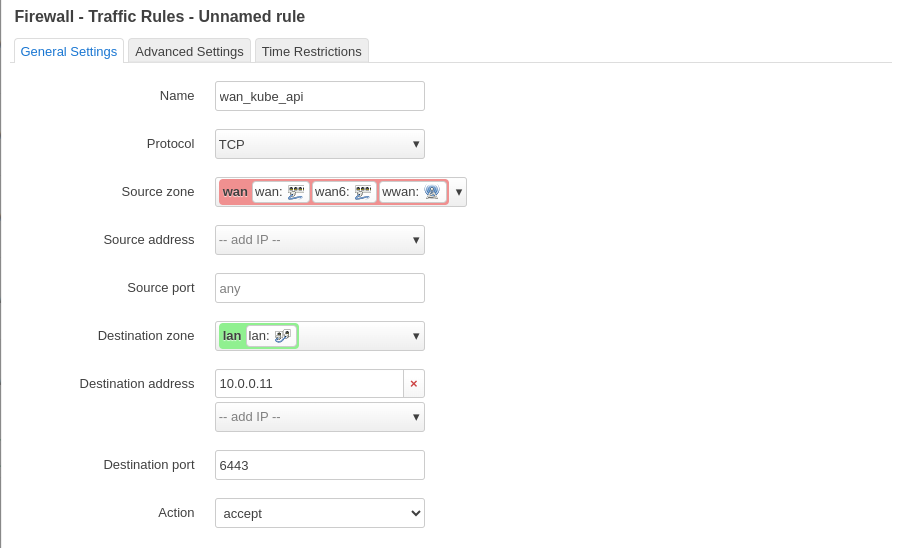
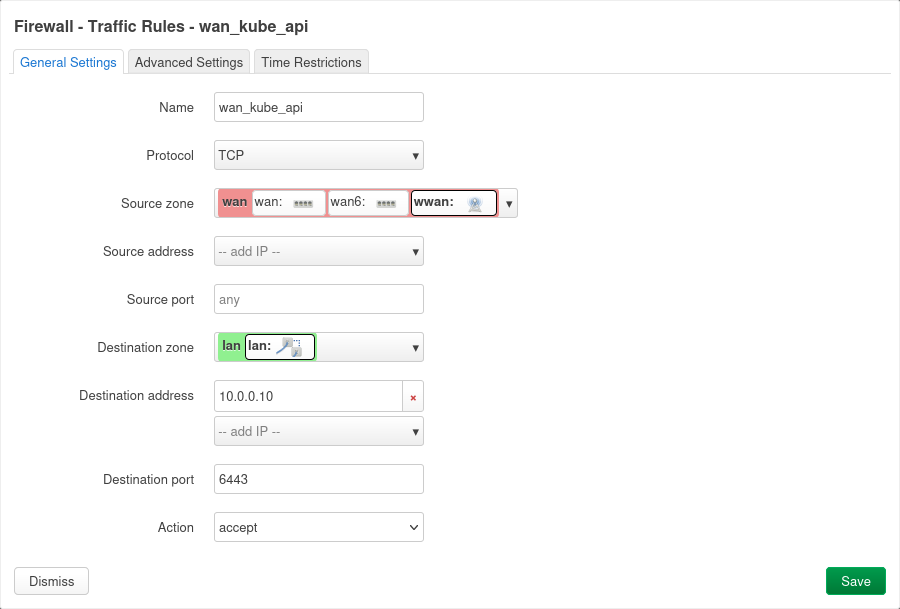
Updating openwrt doc. Adding firewall rules for Minio/Vault/Kafka. Updating rule for Kube-VIP

diff --git a/docs/_docs/openwrt.md b/docs/_docs/openwrt.md
@@ -2,7 +2,7 @@
 title: Cluster Gateway (OpenWrt)
 permalink: /docs/openwrt/
 description: How to configure a router/firewall for our homelab Cluster, running OpenWRT OS and providing connectivity and basic networking services (DNS, DHCP, NTP). 
-last_modified_at: "16-08-2025"
+last_modified_at: "03-04-2026"
 ---
 
 To isolate my kubernetes cluster from my home network, a Router/Firewall running OpenWRT will be used, **gateway** node.
@@ -320,7 +320,7 @@ Enabling SSH traffic (tcp port:22) to cluster nodes from WAN interface
 
 ##### Enabling HTTPs traffic to Kube API
 
-Enabling HTTPS traffic to Kube API (TCP 6443) running in 10.0.0.11 (HA Proxy load balancer)
+Enabling HTTPS traffic to Kube API (TCP 6443) running in 10.0.0.10 (Kube API VIP exposed by Kube-VIP load balancer)
 
 ![openwrt-firewall-kube-api-from-wan](/assets/img/openwrt-firewall-kube-api-from-wan.png)
 
@@ -342,6 +342,27 @@ Enable DNS traffic to OpenWRT router from WAN interface. Use Homelab DNS from my
 
 ![openwrt-allow-dns-traffic-to-device](/assets/img/openwrt-allow-dns-traffic-to-device.png)
 
+##### Enabling HTTPS Traffic to Vault Server
+Enable HTTPS traffic to Vault server (TCP 8200) running in node1 (10.0.0.11)
+
+![openwrt-firewall-vault-from-wan](/assets/img/openwrt-firewall-vault-from-wan.png)
+
+##### Enabling HTTPS Traffic to Minio Server
+
+Enable HTTPS traffic to Minio API (TCP 9091) and console (TCP 9092)running in node1 (10.0.0.11)
+
+![openwrt-firewall-minio-api-from-wan](/assets/img/openwrt-firewall-minio-api-from-wan.png)
+
+![openwrt-firewall-minio-console-from-wan](/assets/img/openwrt-firewall-minio-console-from-wan.png)
+
+
+##### Enabling Kafka traffic to Kafka cluster
+
+Enable Kafka traffic (TCP 9093) to Kafka cluster exposed through Envoy-gateway load balancer (10.0.0.69)
+
+![openwrt-firewall-kafka-from-wan](/assets/img/openwrt-firewall-kafka-from-wan.png)
+
+
 ##### Summary of firewall rules added
 
 ![openwrt-firewall-added-rules](/assets/img/openwrt-firewall-added-rules.png)
@@ -349,7 +370,7 @@ Enable DNS traffic to OpenWRT router from WAN interface. Use Homelab DNS from my
 ### DNS/DHCP service
 
 {{site.data.alerts.note}}
-OpenWRT DNS/DHCP service is based on [[Dnsmasq]], same DNS/DHCP solution used before when `gateway` node was running in Ubuntu OS (["PiCluster: Cluster Gateway (Ubuntu)"](/docs/gateway/))
+OpenWRT DNS/DHCP service is based on Dnsmasq, same DNS/DHCP solution used before when `gateway` node was running in Ubuntu OS (["PiCluster: Cluster Gateway (Ubuntu)"](/docs/gateway/))
 {{site.data.alerts.end}}
 
 Configuration is stored in `/etc/config/dhcp`/
